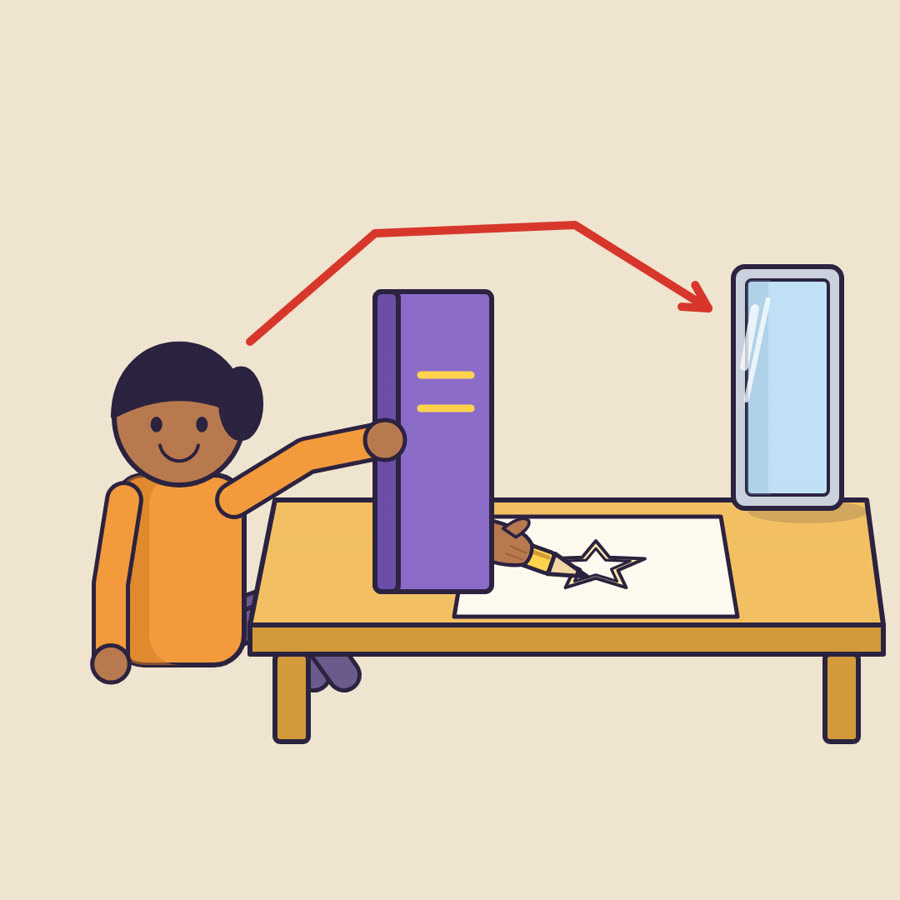
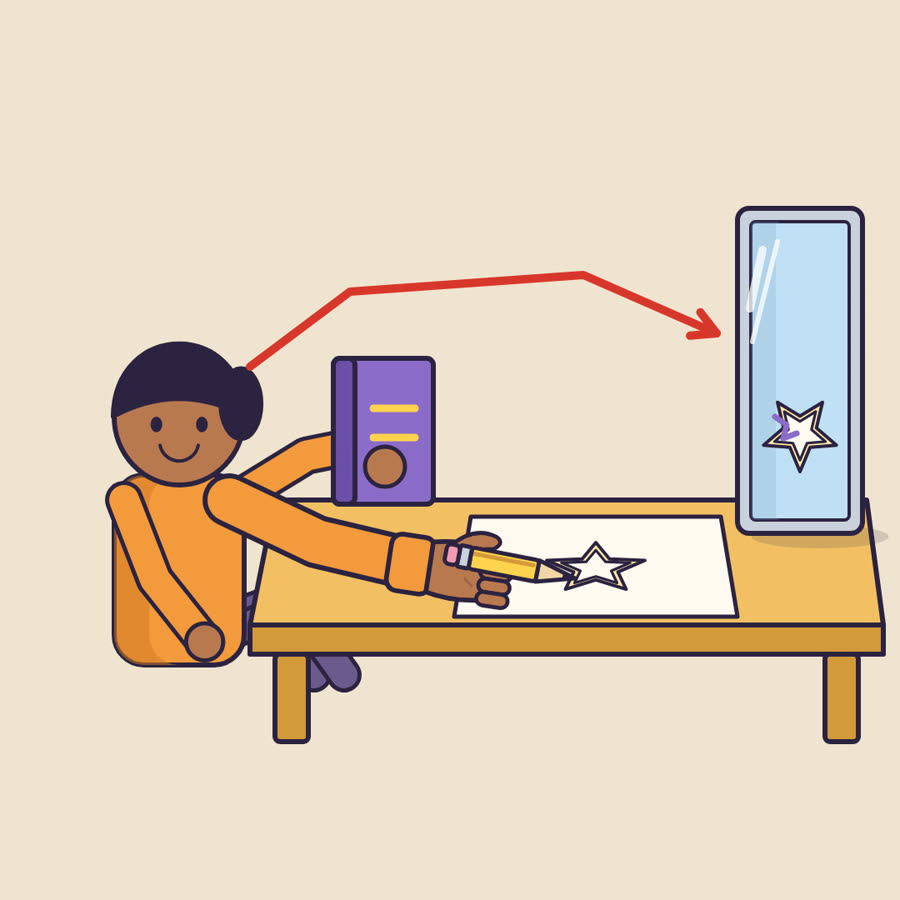
Set-up drawings: clearer hand (palm, fingers, thumb) in the flat kit; test cards re-rendered after a fresh-eyes review (saved, not built)
Claude-Session: https://claude.ai/code/session_01JToV3XHh1vEGaLuTjTUjQr

Changed region(s): [[0.2178, 0.2178, 0.9956, 0.6844], [0.0933, 0.56, 0.2489, 0.7778]]

diff --git a/app/build/drawings/su_plantsWhatPlantsNeed.ts b/app/build/drawings/su_plantsWhatPlantsNeed.ts
@@ -33,7 +33,9 @@ const plant = (c: Ctx, x: number, y: number, h: number, w: number, stem: string 
 const hookPlant = (c: Ctx, x: number, y: number, h: number) => {
   const T = y - h + 45, pts: number[][] = [[x, y], [x, T]];
   for (let a = Math.PI; a <= Math.PI * 2 + 0.5; a += 0.3) pts.push([x + 32 + 32 * Math.cos(a), T + 32 * Math.sin(a)]);
-  thick(c, pts, 12, "#f3e7a6");
+  thick(c, pts, 15, "#f3e7a6");
+  const ex = x + 32 + 32 * Math.cos(Math.PI * 2 + 0.5), ey = T + 32 * Math.sin(Math.PI * 2 + 0.5);
+  leaf(c, ex, ey - 4, 58, Math.PI * 0.62, "#e9df93"); leaf(c, ex, ey - 4, 58, Math.PI * 0.18, "#e9df93");
 };
 const dropP = (c: Ctx, x: number, y: number, s: number) => { c.moveTo(x, y - s * 1.3); c.bezierCurveTo(x + s * 0.2, y - s * 0.7, x + s * 0.9, y - s * 0.2, x + s * 0.9, y + s * 0.2); c.arc(x, y + s * 0.2, s * 0.9, 0, Math.PI); c.bezierCurveTo(x - s * 0.9, y - s * 0.2, x - s * 0.2, y - s * 0.7, x, y - s * 1.3); c.closePath(); };
 const drop = (c: Ctx, x: number, y: number, s: number) => { shape(c, () => dropP(c, x, y, s), COL.water, 5); shine(c, [[x - s * 0.4, y + s * 0.1], [x - s * 0.35, y + s * 0.45]], 6); };
@@ -160,16 +162,22 @@ const katori = (c: Ctx, x: number, y: number, r: number, ry: number) => {
 const K3 = [190, 540, 890];
 const e3s0 = (c: Ctx) => {
   ground(c);
+  c.translate(0, 150);
   const rr = rnd(3);
-  K3.forEach((x) => {
+  K3.forEach((x, k) => {
     katori(c, x, 520, 145, 62);
-    shape(c, () => ell(c, x, 524, 128, 50), COL.sky, 4);
-    line(c, [[x - 100, 538], [x - 30, 560], [x + 60, 556]], 3, COL.waterDk);
-    line(c, [[x - 90, 508], [x, 490], [x + 90, 508]], 3, COL.waterDk);
-    for (let i = 0; i < 10; i++) { const col = i % 5, row = Math.floor(i / 5); sprout(c, x - 72 + col * 36 + rr() * 6, 506 + row * 36 + rr() * 5, 11, 24, rr() * 6.28); }
+    // a folded wet cloth lying in the bowl
+    shape(c, () => rrect(c, x - 112, 500, 224, 50, 14), "#cfe6f7", 5);
+    shape(c, () => rrect(c, x - 98, 484, 196, 42, 12), COL.sky, 5);
+    line(c, [[x - 80, 505], [x + 70, 505]], 4, COL.waterDk);
+    drop(c, x + 98, 560, 20);
+    const n = k === 1 ? 4 : 10;
+    for (let i = 0; i < n; i++) { const col = i % 5, row = Math.floor(i / 5); sprout(c, x - 72 + col * 36 + rr() * 6, 486 + row * 32 + rr() * 5, 11, 24, rr() * 6.28); }
   });
-  shadow(c, 560, 905, 190, 14);
-  spoon(c, 400, 880, 220, 0, 0.65);
+  // a hand dropping sprouts into the middle bowl
+  hand(c, 540, 80, Math.PI * 0.5, 1.5);
+  sprout(c, 560, 200, 12, 26, 0.6); sprout(c, 520, 250, 12, 26, 2.4); sprout(c, 570, 300, 12, 26, 1.2);
+  arrow(c, [[690, 200], [690, 350]]);
 };
 const covered = (c: Ctx, x: number, y: number, r: number) => {
   shadow(c, x + r * 0.15, y + 6, r * 0.85, r * 0.12);
@@ -253,7 +261,17 @@ const cup4 = (c: Ctx, i: number, hs: number[], w: number, stem: string, lf: stri
   }
 };
 const CONES = ["rgba(235,245,255,0.55)", "rgba(228,82,59,0.5)", "rgba(91,143,214,0.5)", "rgba(106,180,70,0.5)"];
-const e4s0 = (c: Ctx) => { ground(c); [0, 1, 2, 3].forEach((i) => cup4(c, i, [70, 85, 75, 80], 10, COL.greenLt, COL.leaf, undefined, true)); };
+const e4s0 = (c: Ctx) => {
+  ground(c);
+  [1, 2, 3].forEach((i) => cup4(c, i, [70, 85, 75, 80], 10, COL.greenLt, COL.leaf));
+  // first cup: two straws in, the third being pushed into the soil by a hand
+  const [x, y] = E4[0], sy = cup(c, x, y, E4W, E4H);
+  STRAW.slice(0, 2).forEach((s) => straw(c, x, sy, s[0], s[1]));
+  plants4(c, x, sy, [70, 85, 75, 80], 10, COL.greenLt, COL.leaf);
+  thick(c, [[x + 92, 95], [x + 92, sy + 6]], 7, COL.pink);
+  hand(c, x + 178, 130, Math.PI, 1.3);
+  arrow(c, [[x + 52, 70], [x + 52, 150]]);
+};
 const e4s1 = (c: Ctx) => { ground(c); [0, 1, 2, 3].forEach((i) => cup4(c, i, [70, 85, 75, 80], 10, COL.greenLt, COL.leaf, CONES[i])); };
 const e4s2 = (c: Ctx) => {
   ground(c);
@@ -261,6 +279,12 @@ const e4s2 = (c: Ctx) => {
   cup4(c, 1, [150, 160, 154, 158], 7, COL.greenLt, COL.leaf);
   cup4(c, 2, [52, 58, 54, 56], 14, COL.green, COL.leafDk);
   cup4(c, 3, [185, 192, 186, 190], 6, "#d2e2a6", "#bcd78a");
+  // the colour each cup had, shown by a square of cover stuck on the cup
+  ["#f4faff", "#e4523b", "#5b8fd6", "#6ab446"].forEach((col, i) => {
+    const [x, y] = E4[i];
+    shape(c, () => rrect(c, x - 36, y - 118, 72, 72, 10), col, 5);
+    shine(c, [[x - 22, y - 100], [x - 22, y - 76]], 7);
+  });
 };
 
 export const su_plantsWhatPlantsNeed = cards("sci.plants.what-plants-need.L3 set-up", [e1s0, e1s1, e1s2, e2s0, e2s1, e2s2, e3s0, e3s1, e3s2, e4s0, e4s1, e4s2]);

diff --git a/app/build/drawings/su_lightReflection.ts b/app/build/drawings/su_lightReflection.ts
@@ -99,23 +99,26 @@ const e2s0 = (c: Ctx) => {
 };
 const e2s1 = (c: Ctx) => {
   ground(c);
-  c.save(); c.translate(0, -150);
-  person(c, 215, 960, 600, { sit: true, armR: [-0.55, -0.2] });
-  const T: Q = [[330, 750], [1040, 750], [1060, 900], [300, 900]];
+  person(c, 215, 810, 600, { sit: true, armR: [-0.55, -0.2], armL: [1.2, 0.9] });
+  const T: Q = [[330, 600], [1040, 600], [1060, 750], [300, 750]];
   shape(c, () => polyP(c, T), COL.wood, 6);
-  shape(c, () => polyP(c, [[300, 900], [1060, 900], [1060, 935], [300, 935]]), COL.woodDk, 6);
-  shape(c, () => rrect(c, 330, 935, 40, 105, 6), COL.woodDk, 6); shape(c, () => rrect(c, 990, 935, 40, 105, 6), COL.woodDk, 6);
-  shape(c, () => polyP(c, [[565, 770], [865, 770], [885, 890], [545, 890]]), COL.paper, 5);
-  starRace(c, 715, 830, 62, 0.5, -Math.PI / 2, 4);
-  pencil(c, 705, 842, -2.8, 150);
-  hand(c, 590, 800, 0.35, 0.75, SKIN.child, CLOTH.child);
-  standMirror(c, 880, 1010, 470, 760);
-  shape(c, () => rrect(c, 450, 500, 140, 360, 8), COL.purple);
-  shape(c, () => rrect(c, 450, 500, 28, 360, 8), "#6b4fa8");
-  line(c, [[505, 600], [565, 600]], 9, COL.yellow); line(c, [[505, 640], [565, 640]], 9, COL.yellow);
-  shape(c, () => ell(c, 462, 678, 24, 24), SKIN.child, 5);
-  arrow(c, [[300, 560], [450, 430], [690, 420], [850, 520]]);
+  shape(c, () => polyP(c, [[300, 750], [1060, 750], [1060, 785], [300, 785]]), COL.woodDk, 6);
+  shape(c, () => rrect(c, 330, 785, 40, 105, 6), COL.woodDk, 6); shape(c, () => rrect(c, 990, 785, 40, 105, 6), COL.woodDk, 6);
+  shape(c, () => polyP(c, [[565, 620], [865, 620], [885, 740], [545, 740]]), COL.paper, 5);
+  starRace(c, 715, 682, 62, 0.5, -Math.PI / 2, 4);
+  standMirror(c, 885, 1035, 250, 640);
+  c.save(); c.beginPath(); rrect(c, 901, 266, 118, 358, 6); c.clip();
+  starRace(c, 960, 520, 46, 1, Math.PI / 2, 4);
+  line(c, [[930, 500], [944, 510], [940, 526], [956, 520]], 7, COL.purple);
   c.restore();
+  shape(c, () => rrect(c, 400, 430, 120, 175, 8), COL.purple);
+  shape(c, () => rrect(c, 400, 430, 26, 175, 8), "#6b4fa8");
+  line(c, [[448, 490], [498, 490]], 9, COL.yellow); line(c, [[448, 525], [498, 525]], 9, COL.yellow);
+  shape(c, () => ell(c, 462, 560, 24, 24), SKIN.child, 5);
+  line(c, [[275, 600], [380, 650], [490, 676]], 64, INK); line(c, [[275, 600], [380, 650], [490, 676]], 52, CLOTH.child);
+  hand(c, 540, 684, 0.15, 0.95, SKIN.child, CLOTH.child);
+  pencil(c, 690, 694, -2.95, 150);
+  arrow(c, [[300, 440], [420, 350], [700, 330], [860, 400]]);
 };
 const e2s2 = (c: Ctx) => {
   mirrorPaper(c);
@@ -180,7 +183,7 @@ const e3s1 = (c: Ctx) => {
   guideLines(c);
   mirrorPanel(c, QL); mirrorPanel(c, QR);
   write(c, "90°", 488, 636, 40, INK, 6);
-  elephant(c, 540, 905, 0.9);
+  elephant(c, 540, 845, 0.7);
 };
 const e3s2 = (c: Ctx) => {
   ground(c);
@@ -189,7 +192,7 @@ const e3s2 = (c: Ctx) => {
   c.save(); c.beginPath(); polyP(c, facePts(QL)); polyP(c, facePts(QR)); c.clip();
   elephant(c, 405, 740, 0.72, true); elephant(c, 675, 740, 0.72, false); elephant(c, 540, 528, 0.62, true);
   c.restore();
-  elephant(c, 540, 905, 0.9);
+  elephant(c, 540, 845, 0.7);
   shape(c, () => ell(c, 900, 150, 72, 72), COL.yellow);
   write(c, "4", 872, 108, 84, INK, 9);
 };

diff --git a/app/build/drawings/flatKit.ts b/app/build/drawings/flatKit.ts
@@ -79,13 +79,22 @@ export const leaf = (c: Ctx, x: number, y: number, len: number, an: number, col:
 };
 
 // ---------------------------------------------------------------- people
-// a hand seen from the side, wrist at (x, y), pointing at angle an; s = size (about 1 = a child's hand on the card)
-export const hand = (c: Ctx, x: number, y: number, an: number, s = 1, skin: string = SKIN.child, sleeve: string = CLOTH.child) => {
+// a hand gripping something, seen from the side: sleeve cuff, palm, four curled fingers stacked one
+// above the other at the front, the thumb over them. Wrist at (x, y), pointing at angle an; s = size
+// (1 is about 150 px long, a child's hand on the card). Put the held object's middle at about (x+70*s, y)
+// along an. open = true: fingers straight out (a flat hand pressing or showing).
+export const hand = (c: Ctx, x: number, y: number, an: number, s = 1, skin: string = SKIN.child, sleeve: string = CLOTH.child, open = false) => {
   c.save(); c.translate(x, y); c.rotate(an); c.scale(s, s);
-  shape(c, () => rrect(c, -90, -34, 70, 68, 18), sleeve);
-  shape(c, () => { c.moveTo(-24, -30); c.quadraticCurveTo(40, -40, 62, -18); c.quadraticCurveTo(70, 0, 62, 16); c.quadraticCurveTo(30, 34, -24, 30); c.closePath(); }, skin);
-  shape(c, () => { c.moveTo(10, -26); c.quadraticCurveTo(30, -58, 44, -52); c.quadraticCurveTo(52, -44, 34, -20); c.closePath(); }, skin, 5);
-  line(c, [[30, -4], [58, -2]], 3, SKIN.childDk); line(c, [[28, 10], [56, 10]], 3, SKIN.childDk);
+  const dk = skin === SKIN.child ? SKIN.childDk : SKIN.adultDk;
+  shape(c, () => rrect(c, -78, -36, 56, 72, 14), sleeve, 6);
+  shape(c, () => { c.moveTo(-26, -32); c.quadraticCurveTo(20, -42, 46, -30); c.lineTo(52, 30); c.quadraticCurveTo(10, 40, -26, 32); c.closePath(); }, skin, 6);
+  for (let k = 0; k < 4; k++) {
+    const fy = -30 + k * 17;
+    if (open) shape(c, () => rrect(c, 34, fy, 64 - Math.abs(k - 1.3) * 8, 16, 8), skin, 5);
+    else shape(c, () => rrect(c, 38, fy, 40, 17, 8.5), skin, 5);
+  }
+  shape(c, () => { c.moveTo(-4, -30); c.quadraticCurveTo(22, -60, 52, -50); c.quadraticCurveTo(64, -44, 50, -34); c.quadraticCurveTo(26, -32, 12, -18); c.closePath(); }, skin, 5);
+  line(c, [[20, 8], [30, 16]], 3, dk);
   c.restore();
 };
 // a person standing or sitting, feet (or seat) at (x, y), height h; arms by joint angles (radians, 0 = pointing right)

diff --git a/app/build/drawings/su_magnetsMagnetsAndMaterials.ts b/app/build/drawings/su_magnetsMagnetsAndMaterials.ts
@@ -31,20 +31,22 @@ const e2s0 = (c: Ctx) => {
   hand(c, 540, 250, Math.PI / 2, 2.3);
 };
 
-// e3 step 1: the magnet slides down into a clear zip bag
+// e3 step 1: a hand holds a clear zip bag open; the magnet slides down into it
 const e3s0 = (c: Ctx) => {
   ground(c);
-  shadow(c, 560, 930, 270, 34);
-  const bag = () => { c.moveTo(310, 360); c.lineTo(810, 360); c.lineTo(830, 900); c.quadraticCurveTo(560, 930, 290, 900); c.closePath(); };
-  shape(c, bag, "rgba(214,236,250,0.5)", 0);
-  barMagnet(c, 480, 150, 160, 500);
-  shape(c, () => { bag(); }, "rgba(214,236,250,0.4)", 6);
-  shape(c, () => rrect(c, 300, 340, 520, 40, 12), COL.teal);
-  shade(c, () => rrect(c, 300, 340, 520, 40, 12), COL.tealDk, 0, 12, 0.5);
-  line(c, [[345, 350], [440, 350]], 7, WHITE);
-  line(c, [[300, 840], [300, 450]], 0, WHITE);
-  line(c, [[340, 470], [350, 780]], 10, WHITE);
-  arrow(c, [[800, 130], [800, 290]]);
+  shadow(c, 540, 935, 250, 30);
+  const bag = () => { c.moveTo(340, 400); c.lineTo(740, 400); c.lineTo(760, 900); c.quadraticCurveTo(540, 935, 320, 900); c.closePath(); };
+  shape(c, () => rrect(c, 340, 372, 400, 56, 26), "#3a3540");
+  shape(c, bag, "rgba(214,236,250,0.55)", 0);
+  barMagnet(c, 460, 130, 160, 500);
+  shape(c, bag, "rgba(214,236,250,0.35)", 6);
+  shape(c, () => rrect(c, 330, 420, 420, 34, 12), COL.teal);
+  shade(c, () => rrect(c, 330, 420, 420, 34, 12), COL.tealDk, 0, 10, 0.5);
+  shape(c, () => rrect(c, 690, 408, 78, 22, 10), COL.tealDk, 5);
+  line(c, [[375, 430], [470, 430]], 7, WHITE);
+  line(c, [[375, 500], [385, 840]], 10, WHITE);
+  hand(c, 850, 760, Math.PI, 1.8);
+  arrow(c, [[810, 140], [810, 300]]);
 };
 
 export const su_magnetsMagnetsAndMaterials = cards("sci.magnets.magnets-and-materials.L3 set-up", [e2s0, e3s0]);

diff --git a/app/content/units/sci/sci.food.balanced-diet.L3.md b/app/content/units/sci/sci.food.balanced-diet.L3.md
@@ -269,7 +269,7 @@ When the first leaves came, small and round and green, I picked a handful. I was
 ## Games
 ### g1 · Cell Delivery (25 min)
 - **rules:** Each player has a My Body sheet. Shuffle the 24 food cards. Lay 5 face up in a row. This row is the market. Put the rest in a pile, face down.; On your turn, take one card from the market. Tick the boxes it fills on your sheet, then put the card on a discard pile. Fill the market back up to 5 from the pile. When the pile is empty, shuffle the discard pile and turn it face down as the new pile.; Extra ticks are not kept. If your Brain cell already has their 2 energy, more energy does not count.; A cell is fed when all their boxes are ticked. Colour them in.; Each player gets 8 turns, like the meals and snacks of one day.; Your body also needs water. Tick the Water drop by taking the buttermilk card, or by using one turn to say 'I drink water' instead of taking a card. If your Water drop is empty at the end, none of your cells count.; With friends or a parent: after 8 turns each, the player with the most fed cells wins. A tie goes to whoever fed the Gut-lining cell. If that is tied too, share the win.; Playing alone: try to feed all six cells and tick the Water drop within 8 turns. Then try in 7, then in 6. Doing it in 5 is very hard and needs luck.
-- **Printable cards: 24 food cards to cut out (each shows what it gives the body):** Rice: 2 energy; Chapati: 2 energy, 1 fibre; Ragi mudde: 2 energy, 1 calcium, 1 fibre; Poha with peanuts: 2 energy, 1 protein; Banana: 1 energy, 1 fibre; Moong dal: 2 protein, 1 iron, 1 fibre; Chana sundal: 2 protein, 1 iron, 1 fibre; Sprouts chaat: 1 protein, 1 vitamin C, 1 fibre; Boiled egg: 2 protein, 1 fat, 1 vitamin A; Fish curry: 2 protein, 1 fat; Paneer: 1 protein, 1 calcium, 1 fat; Glass of milk: 1 protein, 1 calcium; Bowl of curd: 1 protein, 1 calcium; Til laddoo: 1 energy, 1 calcium, 1 iron, 1 fat; Handful of peanuts: 1 protein, 1 fat, 1 energy; Keerai poriyal (spinach): 1 iron, 1 vitamin A, 1 fibre; Carrot sticks: 1 vitamin A, 1 fibre; Amla: 1 vitamin C; Guava: 1 vitamin C, 1 fibre; Mango: 1 energy, 1 vitamin A, 1 vitamin C; Spoon of ghee: 1 fat; Jalebi (festival treat): 2 energy; Packet of chips: 1 energy, 1 fat; Buttermilk: 1 protein, 1 calcium, 1 water
+- **Printable cards: 24 food cards to cut out (each shows what it gives the body):** Rice: 2 energy [picture]; Chapati: 2 energy, 1 fibre; Ragi mudde: 2 energy, 1 calcium, 1 fibre; Poha with peanuts: 2 energy, 1 protein; Banana: 1 energy, 1 fibre [picture]; Moong dal: 2 protein, 1 iron, 1 fibre; Chana sundal: 2 protein, 1 iron, 1 fibre; Sprouts chaat: 1 protein, 1 vitamin C, 1 fibre; Boiled egg: 2 protein, 1 fat, 1 vitamin A; Fish curry: 2 protein, 1 fat; Paneer: 1 protein, 1 calcium, 1 fat; Glass of milk: 1 protein, 1 calcium; Bowl of curd: 1 protein, 1 calcium; Til laddoo: 1 energy, 1 calcium, 1 iron, 1 fat; Handful of peanuts: 1 protein, 1 fat, 1 energy; Keerai poriyal (spinach): 1 iron, 1 vitamin A, 1 fibre; Carrot sticks: 1 vitamin A, 1 fibre; Amla: 1 vitamin C [picture]; Guava: 1 vitamin C, 1 fibre [picture]; Mango: 1 energy, 1 vitamin A, 1 vitamin C; Spoon of ghee: 1 fat; Jalebi (festival treat): 2 energy; Packet of chips: 1 energy, 1 fat; Buttermilk: 1 protein, 1 calcium, 1 water
 - **Printable score sheet: My Body sheet: six cells and a water drop, each with boxes to tick:** Muscle cell: needs 2 protein; Brain cell: needs 2 energy; Bone cell: needs 1 calcium; Blood-making cell: needs 1 iron and 1 vitamin C; Eye cell: needs 1 vitamin A and 1 fat; Gut-lining cell: needs 2 fibre (the microbes turn fibre into their food); Water drop: needs 1 water. Without it, the game ends with no cells fed.
 - **s1 (3 min)**  
   *Parent does:* 1. Cut out the 24 food cards. 2. Give each player a My Body sheet and a pencil. 3. Shuffle the cards and lay 5 face up as the market.  
